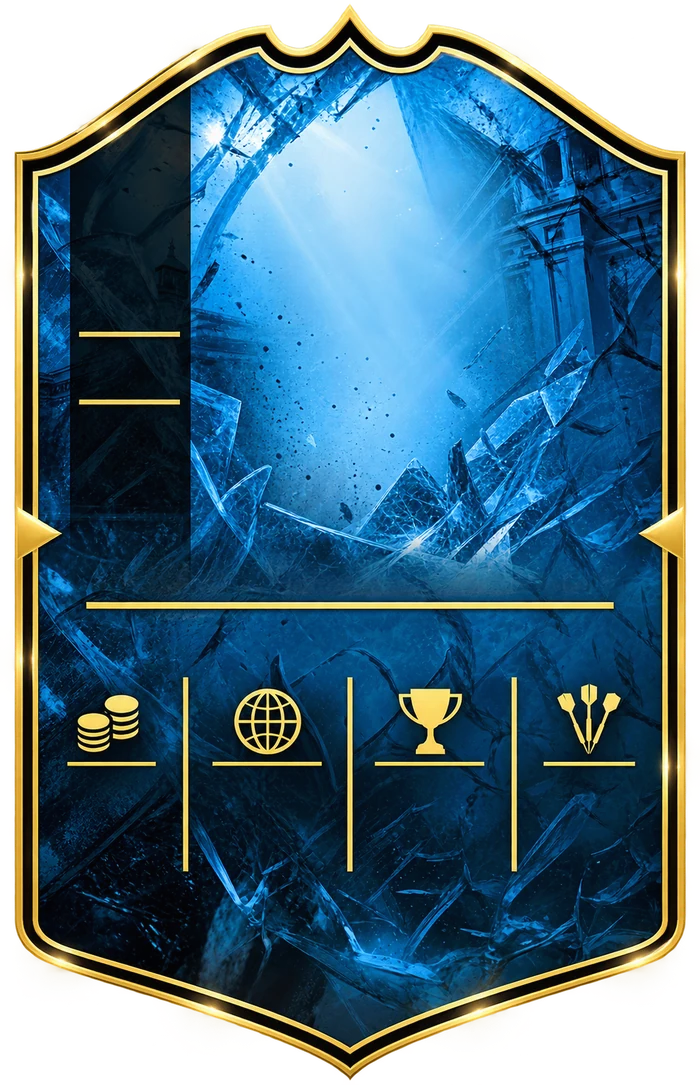
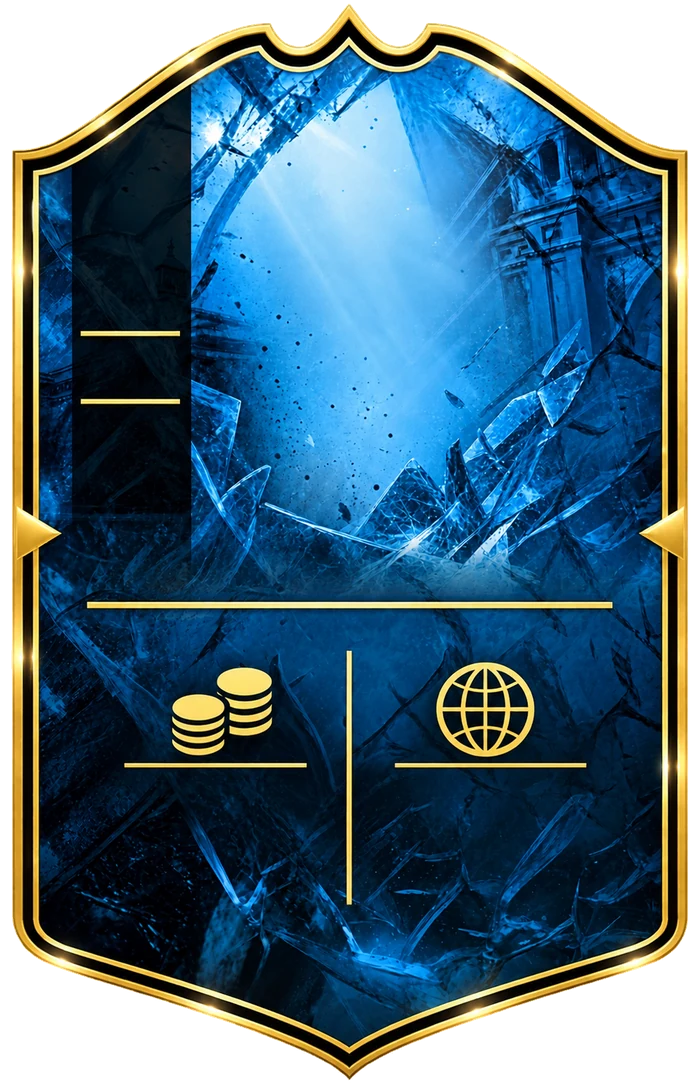
Bytt til brukerens 2-ikon-mal — løser maskerings-problemet for godt
CSS-forsøket på å dekke over de ubrukte RANKING/9-DARTERS-ikonene (både
en svak radial-gradient og senere en blurret solid flate) klarte ikke å
faktisk skjule dem — de skarpe gull-ikonene skinte fortsatt tydelig
gjennom, og etterlot rotete løse skillelinjer.

Brukeren løste det ved å levere en ny variant av malen med bare 2 ikoner
bakt inn (mynt + globus) i stedet for 4 — ingen maskering nødvendig i
det hele tatt nå. Målte opp den nye filen på nytt (samme grunnfil/
koordinater som før, bekreftet med samme Python-script-teknikk).

Malen kom uten alfakanal (hvit bakgrunn, ikke transparent) — floodfill
fra alle fire hjørner + kantpunkter i Python gjorde bakgrunnen
gjennomsiktig uten å røre lyse detaljer inni selve skjoldet.

Globus-ikonet er nå merket RANKING (mest naturlige tolkning av et
globus-ikon) i stedet for TITLER — malen har ikke noe trofé-ikon lenger,
og et globus-ikon merket "titler" ville sett feil ut. Noe overlapp med
topp-tallet er en mindre kostnad enn et ikon/etikett-mismatch.

Krediteringen er samtidig flyttet fra tekst lagt OPPÅ kort-grafikken til
en vanlig bildetekst UNDER selve kortet — brukeren opplevde den forrige
plasseringen som rotete "bakgrunnstekst". Fortsatt påkrevd av
CC-lisensen, bare i en renere posisjon.

Claude-Session: https://claude.ai/code/session_01X4Cnierj6JFkURVN1kDwmB

Changed region(s): [[0.0, 0.0, 0.99, 1.0], [0.6, 0.1521, 0.63, 0.1825], [0.15, 0.8212, 0.18, 0.8516]]

diff --git a/src/components/PlayerCard.tsx b/src/components/PlayerCard.tsx
@@ -23,20 +23,13 @@ const ZONES = {
   topLabel: { left: '11.3%', width: '14.3%', top: '31%', bottom: '62.9%' },
   photo: { left: '6%', right: '6%', top: '3%', bottom: '44.1%' }, // ned til navn-skillelinjen (55.9%)
   name: { left: '8%', right: '8%', bottom: '45.5%' },
-  // Malen har 4 ikoner bakt inn (mynt/globus/trofé/piler), men kortet viser nå
-  // kun ODDS og TITLER — brukeren ba om å fjerne RANKING (vises allerede øverst
-  // til venstre på kortet) og 9-DARTERS (ingen data). Globus- og pil-ikonene
-  // dekkes derfor over (se iconMasks under) i stedet for å stå der uten tekst,
-  // og ODDS/TITLER får hver sin halvdel av bredden — mye mer luft enn de
-  // opprinnelige 20 %-brede kolonnene, som var årsaken til at teksten ble
-  // avkuttet ("RAN…", "TITL…") på smale kort.
+  // v2 av malen (fra brukeren): kun 2 ikoner bakt inn (mynt/globus) i stedet
+  // for 4 — løser CSS-maskerings-problemet fra forrige versjon helt (der
+  // gull-ikonene for RANKING/9-DARTERS fortsatt skinte gjennom masken).
+  // Samme grunnfil/koordinater ellers (målt på nytt for å være sikker).
   statCols: [
-    { left: '6%', width: '44%' },
-    { left: '50%', width: '44%' },
-  ],
-  iconMasks: [
-    { left: '30%', width: '20%' }, // globus (RANKING-ikonet)
-    { left: '70%', width: '24%' }, // piler (9-DARTERS-ikonet)
+    { left: '5%', width: '45%' },
+    { left: '50%', width: '45%' },
   ],
   statLabel: { top: '71%' },
   statValue: { top: '76%' },
@@ -71,6 +64,7 @@ export function PlayerCard({
   const photo = PLAYER_PHOTOS[player.name]
 
   return (
+    <div style={{ width: '100%' }}>
     <button
       role="radio"
       aria-checked={selected}
@@ -161,34 +155,35 @@ export function PlayerCard({
         </div>
       </div>
 
-      {/* Globus- og pil-ikonene fra malen dekkes over — RANKING står allerede
-          øverst til venstre på kortet, og 9-DARTERS har ingen data. */}
-      {ZONES.iconMasks.map((m, i) => (
-        <div key={i} style={{
-          position: 'absolute', left: m.left, width: m.width, top: '62%', height: '10%',
-          background: 'radial-gradient(ellipse, rgba(6,10,20,0.92) 40%, rgba(6,10,20,0) 75%)',
-        }} />
-      ))}
-
-      {/* Statistikk — kun ODDS (ekte data) og TITLER (venter på reelt tall,
-          se TODO.md), hver over sin halvdel av raden. */}
+      {/* Statistikk — mynt-ikonet er ODDS (ekte data). Globus-ikonet er
+          naturligst RANKING (verden/globus ≈ verdensranking) — brukeren ba
+          opprinnelig om å droppe RANKING her siden den står øverst til
+          venstre også, men den nye malen har ikke noe trofé-ikon for
+          "TITLER", og et globus-ikon merket "titler" ville sett feil ut.
+          Litt overlapp med topp-tallet er et mindre problem enn et
+          ikon/etikett som ikke stemmer — si fra hvis du heller vil ha en
+          mal med et trofé-ikon i stedet. */}
       <StatCol zone={ZONES.statCols[0]} label="ODDS" value={player.odds} />
-      <StatCol zone={ZONES.statCols[1]} label="TITLER 2026" value="—" />
-
-      {photo && (
-        <a
-          href={photo.creditUrl}
-          target="_blank"
-          rel="noopener noreferrer"
-          onClick={(e) => e.stopPropagation()}
-          style={{
-            position: 'absolute', bottom: '1%', left: 0, right: 0, textAlign: 'center',
-            fontSize: 7, color: 'rgba(255,255,255,0.4)', textDecoration: 'none',
-          }}
-        >
-          📷 {photo.credit}
-        </a>
-      )}
+      <StatCol zone={ZONES.statCols[1]} label="RANKING" value={`#${player.pdcRanking}`} />
     </button>
+
+    {/* Kreditering som en vanlig bildetekst UNDER selve kortet, i stedet for
+        tekst lagt oppå kort-grafikken — ba brukeren om etter at den så ut
+        som rotete "bakgrunnstekst" oppå kortet. Fortsatt påkrevd av
+        CC-lisensen bildet er hentet under (se playerPhotos.ts), bare flyttet. */}
+    {photo && (
+      <a
+        href={photo.creditUrl}
+        target="_blank"
+        rel="noopener noreferrer"
+        style={{
+          display: 'block', textAlign: 'center', marginTop: 3,
+          fontSize: 8, color: 'rgba(255,255,255,0.35)', textDecoration: 'none',
+        }}
+      >
+        📷 {photo.credit}
+      </a>
+    )}
+    </div>
   )
 }
